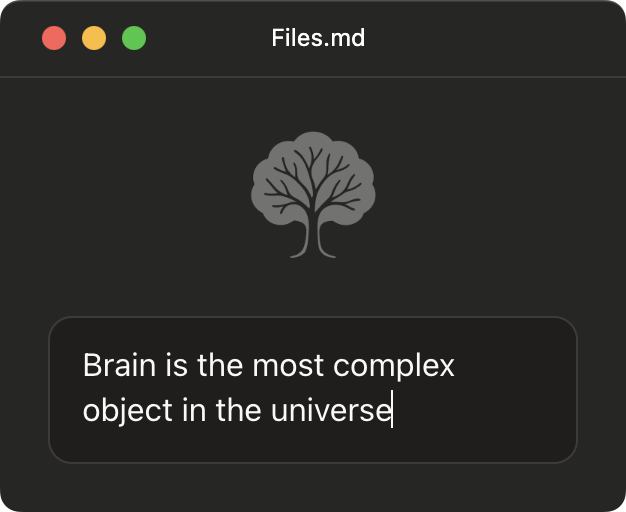
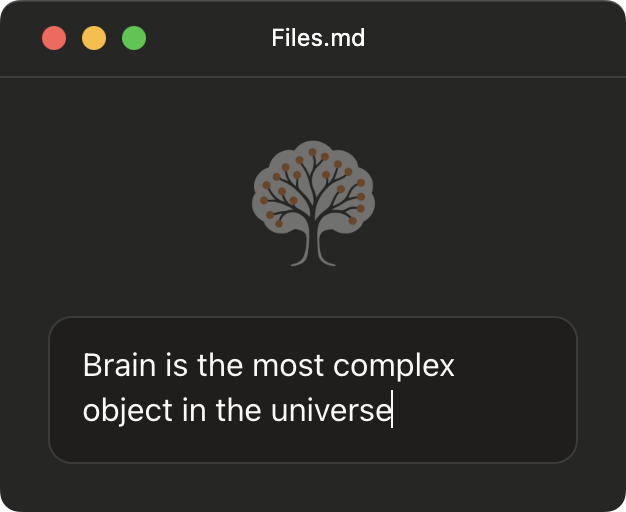
fix unified style for screens

Changed region(s): [[0.3946, 0.25, 0.607, 0.5312], [0.516, 0.5, 0.5463, 0.5312]]

diff --git a/web/chat.css b/web/chat.css
@@ -36,7 +36,6 @@
 .message {
     background: var(--col-bg-alt);
     padding: 4px 8px 4px 36px;
-    border-bottom: 1px solid var(--col-border);
     position: relative;
     animation: slideIn 0.3s ease-out;
     cursor: pointer;
@@ -107,9 +106,6 @@
     z-index: 1;
 }
 
-.message:last-child {
-    border-bottom: none;
-}
 
 .message:hover:not(:has(.complete-btn:hover)) .message-content {
     background: var(--color-neo-orange) !important;

diff --git a/web/lib/theme-brutal-dark.css b/web/lib/theme-brutal-dark.css
@@ -441,8 +441,6 @@
 }
 .empty-title {
     font-weight: 800 !important;
-    padding-bottom: 14px;
-    border-bottom: 2px solid var(--col-border);
     margin-bottom: 20px !important;
 }
 .empty-desc {

diff --git a/web/lib/theme-brutal.css b/web/lib/theme-brutal.css
@@ -467,8 +467,6 @@
 }
 .empty-title {
     font-weight: 800 !important;
-    padding-bottom: 14px;
-    border-bottom: 2px solid var(--col-border);
     margin-bottom: 20px !important;
 }
 .empty-desc {